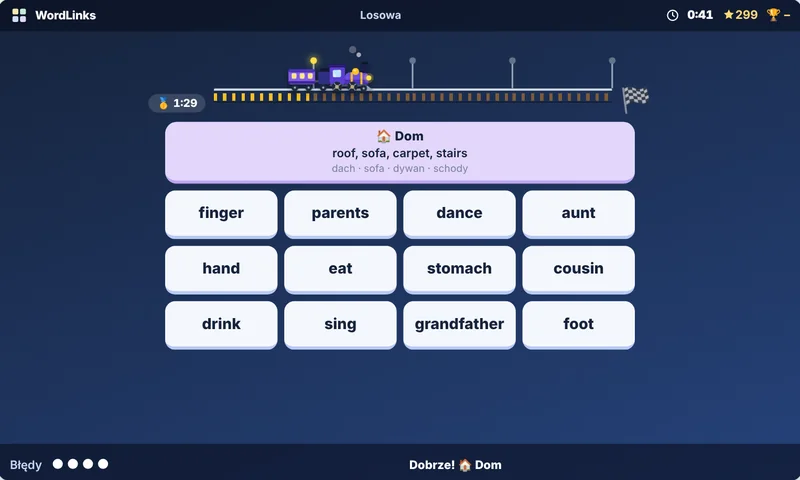
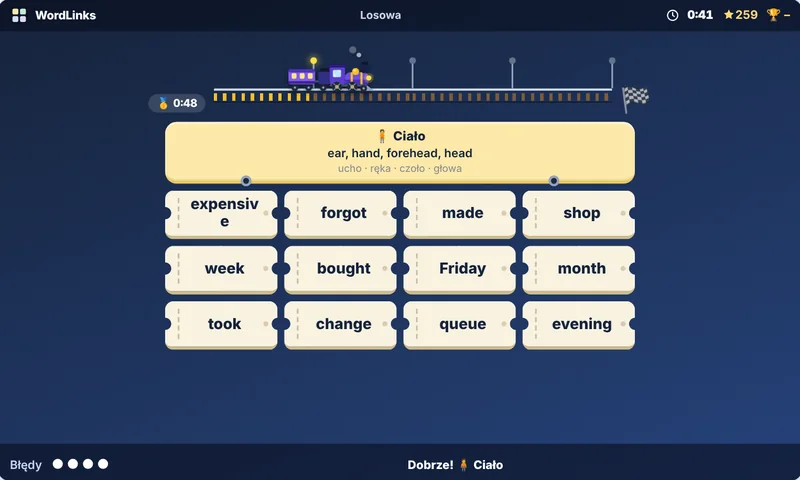
WordLinks: kafelki jak bilety kolejowe, rozwiązane grupy jak wagony
Claude-Session: https://claude.ai/code/session_01MyUW9fQB8JttoV36Ji4mpt

Changed region(s): [[0.1875, 0.25, 0.8125, 0.75], [0.5, 0.9375, 0.625, 1.0], [0.2188, 0.1875, 0.25, 0.2188]]

diff --git a/index.html b/index.html
@@ -812,6 +812,19 @@ html[data-season=winter] .hero::after{inset:0;width:auto;height:auto;border-radi
 @keyframes twpop{from{transform:scale(0) rotate(-30deg);opacity:0}to{transform:none;opacity:1}}
 @media(prefers-reduced-motion:reduce){.tw-wh,.tw-smk circle,.tw-man.go{animation:none}}
 @media(max-width:700px){.cn-tower{height:76px}.tw-svg{width:84px;height:42px}.tw-man,.tw-man.go{top:-39px}.tw-fl i::after{top:-30px;height:27px}.tw-fl i::before{top:-36px}}
+/* WordLinks: kafelki jak bilety kolejowe, rozwiązane grupy jak wagony */
+.cn-t{--tk:#f8f2e0;position:relative;padding:6px 18px 6px 26px;border-bottom-color:#cdbb8a;border-radius:10px;background:radial-gradient(circle at 0 50%,transparent 7px,var(--tk) 7.5px) left/51% 100% no-repeat,radial-gradient(circle at 100% 50%,transparent 7px,var(--tk) 7.5px) right/51% 100% no-repeat;transition:transform .12s var(--ease-out)}
+.cn-t::before{content:"";position:absolute;left:15px;top:9px;bottom:9px;border-left:2px dashed rgba(122,92,40,.35)}
+.cn-t::after{content:"";position:absolute;right:11px;top:50%;width:6px;height:6px;margin-top:-3px;border-radius:50%;background:rgba(122,92,40,.25)}
+.cn-t.sel{--tk:var(--amb);border-bottom-color:#c98100}
+.cn-t.sel::before{border-left-color:rgba(58,38,0,.4)}.cn-t.sel::after{background:rgba(58,38,0,.35)}
+.cn-t.blank{--tk:#e6ebf5;background:radial-gradient(circle at 0 50%,transparent 7px,var(--tk) 7.5px) left/51% 100% no-repeat,radial-gradient(circle at 100% 50%,transparent 7px,var(--tk) 7.5px) right/51% 100% no-repeat}
+.cn-t.blank::before,.cn-t.blank::after{display:none}
+@media(hover:hover){.cn-t:not(.sel):not(.blank):hover{--tk:#fffdf5;background:radial-gradient(circle at 0 50%,transparent 7px,var(--tk) 7.5px) left/51% 100% no-repeat,radial-gradient(circle at 100% 50%,transparent 7px,var(--tk) 7.5px) right/51% 100% no-repeat}}
+.cn-row{position:relative;box-shadow:inset 0 3px 0 rgba(255,255,255,.4),inset 0 -2px 0 rgba(0,0,0,.06)}
+.cn-row::before,.cn-row::after{content:"";position:absolute;bottom:-7px;width:13px;height:13px;border-radius:50%;background:#1e293b;border:3px solid #94a3b8;box-sizing:border-box;z-index:1}
+.cn-row::before{left:16%}.cn-row::after{right:16%}
+@media(max-width:700px){.cn-board{grid-template-columns:repeat(4,minmax(0,1fr))}.cn-t,.cn-t.blank{padding:2px 2px 2px 9px;font-size:clamp(10.5px,3vw,16px);hyphens:manual;overflow-wrap:anywhere;background:radial-gradient(circle at 0 50%,transparent 4px,var(--tk) 4.5px) left/51% 100% no-repeat,radial-gradient(circle at 100% 50%,transparent 4px,var(--tk) 4.5px) right/51% 100% no-repeat}.cn-t::before{left:5px;top:8px;bottom:8px}.cn-t::after{display:none}}
 </style>
 </head>
 <body>
